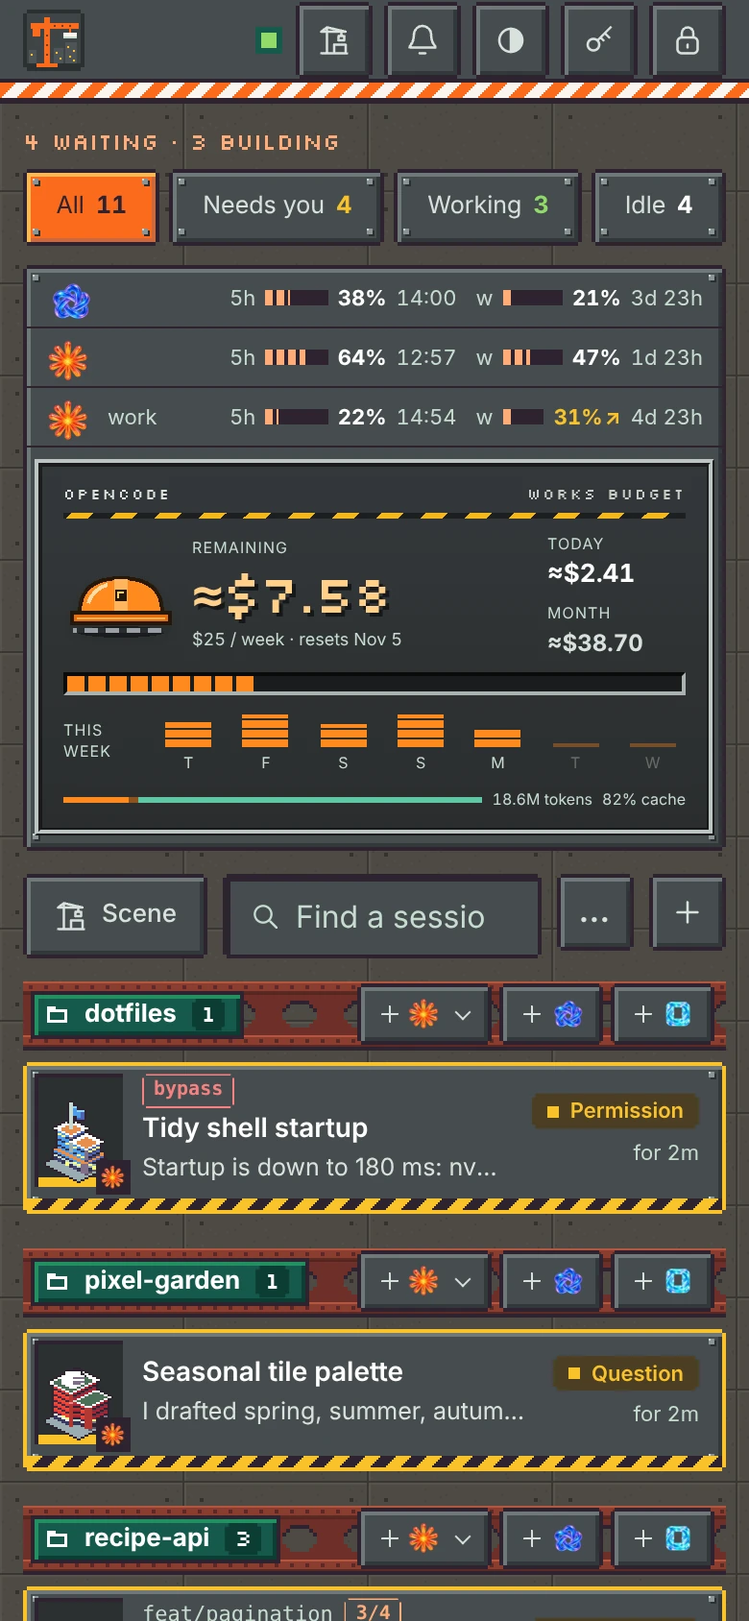
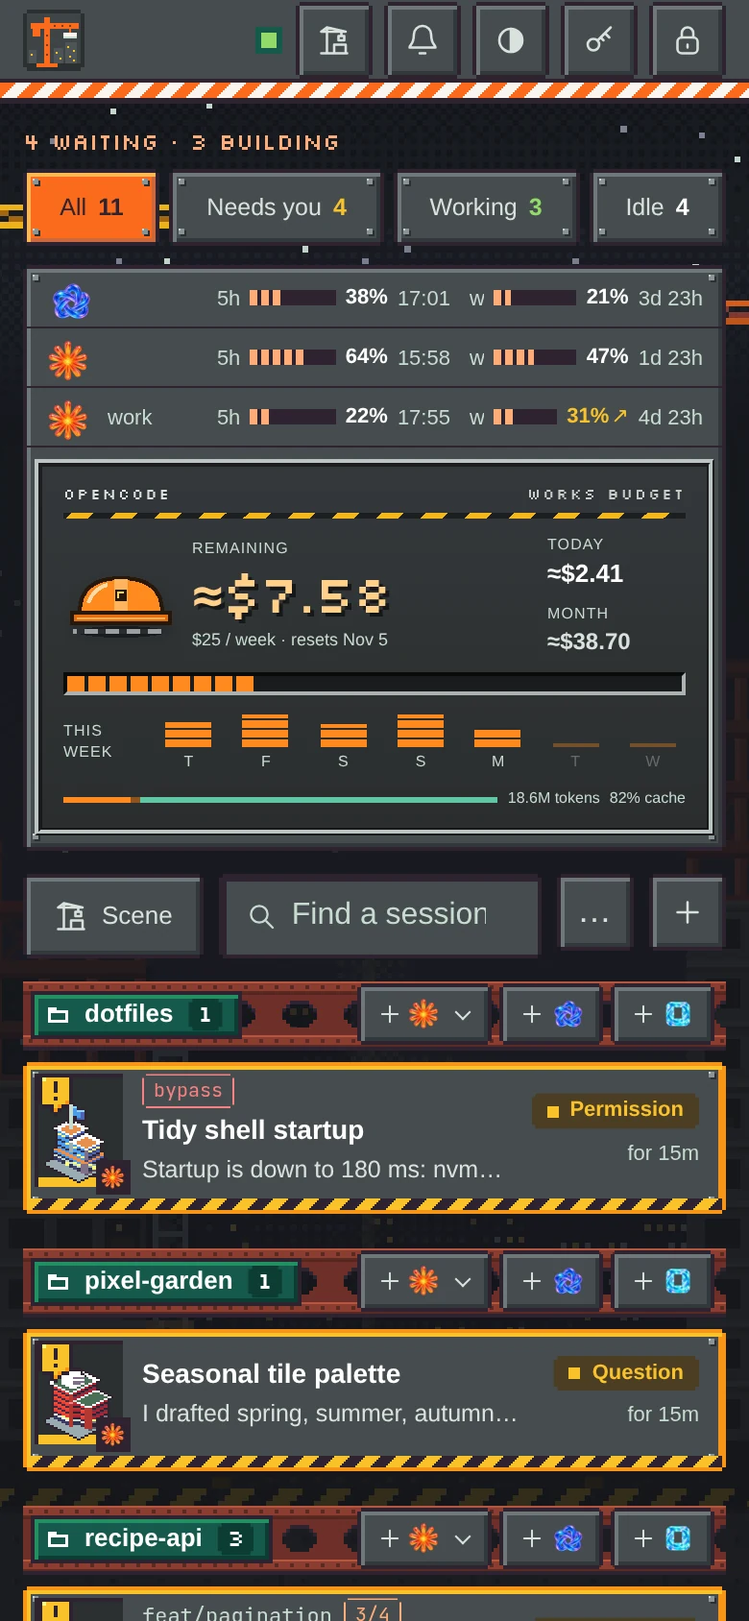
Metropolis: a building site working through the night behind the list
An animated pixel wallpaper, as Heroes and Sanctuary have: the city's towers at night, two tower cranes, frames going up in concrete and steel, floodlights and the hoarding. The picture is drawn in code (client/backdrop/city-still.js, rendered to city-bg.png by scripts/city-art.mjs) so the painter knows where everything is: trolleys run along the jibs and hooks bring up steel, welders' arcs throw sparks, beacons blink, the hoarding's lamps chase, stars twinkle and a plane crosses now and then. It shows behind the list only (the scene covers it otherwise, and the painter idles), the list's column shaded so cards read; the chat has it still and shaded behind its messages.

Also: a city-builder's "!" over buildings that need you, chat messages as steel windows with the speaker on a title bar, and permits answered on green, blue and red buttons.

diff --git a/client/city-list.css b/client/city-list.css
@@ -4,15 +4,19 @@
   .city-portrait { display: block; width: var(--w); height: var(--h); overflow: hidden; flex: none; pointer-events: none; }
   .city-portrait canvas { display: block; height: 100%; image-rendering: pixelated; }
 
-  /* The ground: poured concrete, its form's joints and tie holes still showing. */
-  .main-content, .history-viewport { background: var(--bg) url('/city-formwork.svg') 0 0 / 96px 48px; }
-  body, .shell { background-color: var(--bg); }
+  /* The ground: the building site at night (client/backdrop), showing through behind the list. */
+  /* The list's own column is shaded down below its heading, so the site only glows through between cards; the heading and the margins show it whole. */
+  .main-content { background: linear-gradient(#14161b00 0 96px, #14161bd1 168px); }
+  body { background-color: var(--bg); }
+  /* The chat has the same site behind it, held still and shaded down so its messages read over it. */
+  .history-viewport { background: linear-gradient(#14161bb3, #14161bb3), var(--bg) url('/city-bg.png') center bottom / cover fixed; image-rendering: pixelated; }
+  .history-viewport > * { image-rendering: auto; }
 
   /* Plates are bolted on. */
   :is(.session-card, .usage-accounts, .nav-item, .stat, .login-card, .empty) { background-image: var(--rivet), var(--rivet), var(--rivet), var(--rivet); background-position: 3px 3px, calc(100% - 3px) 3px, 3px calc(100% - 3px), calc(100% - 3px) calc(100% - 3px); background-size: 4px 4px; background-repeat: no-repeat; }
 
-  /* The site behind the page's name, and the road barrier in front of it. */
-  &:is([data-scene-list], [data-scene-fallback]) .page-heading { position: relative; margin-inline: -24px; padding: 16px 24px 20px; background: var(--barrier-edge) 0 calc(100% - 8px) / 100% 2px no-repeat, var(--barrier) 0 100% / 16px 8px repeat-x, url('/city-skyline.svg') 0 calc(100% - 8px) / 640px 56px repeat-x; box-shadow: 0 2px 0 var(--ink); }
+  /* The road barrier in front of the page's name. */
+  &:is([data-scene-list], [data-scene-fallback]) .page-heading { position: relative; margin-inline: -24px; padding: 16px 24px 20px; background: var(--barrier-edge) 0 calc(100% - 8px) / 100% 2px no-repeat, var(--barrier) 0 100% / 16px 8px repeat-x; box-shadow: 0 2px 0 var(--ink); }
 
   /* A phone has no page heading to stand on: the barrier runs under its top bar. */
   .topbar { background: var(--barrier-edge) 0 calc(100% - 8px) / 100% 2px no-repeat, var(--barrier) 0 100% / 16px 8px repeat-x, var(--panel); padding-bottom: 10px; box-shadow: 0 2px 0 var(--ink); }
@@ -42,6 +46,8 @@
   /* Tape round whatever needs you, and only that: it's the one place yellow goes. */
   .session-card.needs-input { position: relative; padding-bottom: 12px; }
   .session-card.needs-input::after { content: ''; position: absolute; inset: auto 0 0; height: 6px; background: url('/city-hazard.svg') 0 0 / 16px 8px repeat-x; pointer-events: none; }
+  /* And the game's alert sign over its building. */
+  .session-card.needs-input .agent-mark::after { content: ''; position: absolute; top: 2px; left: 2px; z-index: 2; width: 18px; height: 22px; background: url('/city-alert.svg') 0 0 / 100% 100%; pointer-events: none; }
   /* Going up: the bay's ground runs. */
   .session-card[data-status=working] .agent-mark { background: url('/city-busy.svg') 0 100% / 16px 8px repeat-x, var(--asphalt); }
   .session-card:is([data-status=idle], [data-status=offline]) { background-color: #3f4648; box-shadow: inset 2px 2px 0 #4d5456, inset -2px -2px 0 #33383a; --text: #d9e2dc; }
@@ -85,7 +91,7 @@
 
   /* The panel: the session's own tower at the kerb of its street. */
   .detail-panel { border-left: 2px solid var(--ink); }
-  .chat-header { padding-bottom: 18px; background: var(--barrier-edge) 0 calc(100% - 8px) / 100% 2px no-repeat, var(--barrier) 0 100% / 16px 8px repeat-x, url('/city-skyline.svg') 0 calc(100% - 8px) / 640px 56px repeat-x, var(--bg); box-shadow: 0 2px 0 var(--ink); position: relative; z-index: 1; }
+  .chat-header { padding-bottom: 18px; background: var(--barrier-edge) 0 calc(100% - 8px) / 100% 2px no-repeat, var(--barrier) 0 100% / 16px 8px repeat-x, var(--bg) url('/city-formwork.svg') 0 0 / 96px 48px; box-shadow: 0 2px 0 var(--ink); position: relative; z-index: 1; }
   /* Its tower stands in the header's mark, on the same bay as in the list, with the agent's tile at the corner. */
   .chat-header .agent-identity .agent-mark { display: flex; align-items: flex-end; justify-content: center; width: 46px; height: 54px; overflow: visible; border: 0; background: linear-gradient(#565e60 0 0) 0 100% / 100% 5px no-repeat, var(--asphalt); box-shadow: inset 2px 2px 0 var(--ink); }
   .chat-header .agent-mark .city-portrait { position: absolute; left: 50%; bottom: 2px; transform: translateX(-50%); max-width: 46px; max-height: 64px; }
@@ -95,18 +101,14 @@
   .chat-header .plan-info { justify-self: start; max-width: 100%; padding: 1px 6px; background: var(--asphalt); }
   .chat-header .panel-title { font-family: var(--font); font-weight: 700; font-size: 17px; text-shadow: 2px 2px 0 var(--ink); }
 
-  /* What's said, in the map's speech bubbles: paper for the agent, a street sign for you. */
-  .recent-message:not(.tool, .notice) { position: relative; --text: #2e222f; --text-2: #3e3546; --text-3: #625565; --panel-2: #e3e6dc; --line-2: #9babb2; --accent: #165a4c; --sunken: #2e222f; border: 2px solid transparent; border-image: var(--px-line) 1 / 2px; background-color: var(--paper); background-clip: padding-box; color: var(--text); box-shadow: inset 0 -2px 0 var(--concrete); }
-  .recent-message.user:not(.tool, .notice) { --text: #fff; --text-2: #d9e2dc; --text-3: #c7dcd0; --panel-2: #0d3d33; --line-2: #239063; --accent: #8ff8e2; background-color: var(--sign); box-shadow: inset 0 -2px 0 #0d3d33; }
-  .recent-message:not(.tool, .notice)::before, .recent-message:not(.tool, .notice)::after { content: ''; position: absolute; top: 100%; left: 12px; width: 10px; height: 6px; margin-top: 2px; pointer-events: none; }
-  .recent-message:not(.tool, .notice)::before { background: var(--ink); clip-path: polygon(0 0, 10px 0, 10px 2px, 8px 2px, 8px 4px, 6px 4px, 6px 6px, 4px 6px, 4px 4px, 2px 4px, 2px 2px, 0 2px); }
-  .recent-message:not(.tool, .notice)::after { background: var(--paper); clip-path: polygon(2px 0, 8px 0, 8px 2px, 6px 2px, 6px 4px, 4px 4px, 4px 2px, 2px 2px); }
-  .recent-message.user:not(.tool, .notice)::before, .recent-message.user:not(.tool, .notice)::after { left: auto; right: 12px; }
-  .recent-message.user:not(.tool, .notice)::after { background: var(--sign); }
-  .recent-message:not(.tool, .notice) { margin-bottom: 8px; }
-  .recent-message:not(.tool, .notice) pre { --text: #fff; color: #fff; }
-  .recent-message:not(.tool, .notice) pre code { color: #fff; }
-  .recent-message:not(.tool, .notice) .message-table-card { background: var(--panel-2); }
+  /* What's said comes up in the game's message windows: a steel plate bolted at its foot, the speaker on a title bar, the agent's on asphalt in hi-vis and yours on a street sign. */
+  .recent-message:not(.tool, .notice) { position: relative; margin-bottom: 8px; border: 2px solid transparent; border-image: var(--px-line) 1 / 2px; background: var(--rivet) 3px calc(100% - 3px) / 4px 4px no-repeat, var(--rivet) calc(100% - 3px) calc(100% - 3px) / 4px 4px no-repeat, var(--panel); background-clip: padding-box; box-shadow: var(--px-raised); }
+  .recent-message.user:not(.tool, .notice) { background-color: var(--panel-2); }
+  .recent-message:not(.tool, .notice) .message-meta { margin: -9px -12px 8px; padding: 3px 10px 4px; background: var(--asphalt); box-shadow: inset 0 -2px 0 var(--ink); color: var(--text-3); }
+  .recent-message:not(.tool, .notice) .message-meta strong { font: 400 8px/1.6 var(--display); color: var(--accent); }
+  .recent-message.user:not(.tool, .notice) .message-meta { background: var(--sign); box-shadow: inset 2px 0 0 var(--sign-lit), inset 0 -2px 0 #0d3d33; color: var(--text-2); }
+  .recent-message.user:not(.tool, .notice) .message-meta strong { color: #fff; }
+  .recent-message:not(.tool, .notice) .message-table-card { background: var(--sunken); }
   .recent-message.tool { border-left: 2px solid var(--kerb); }
   .message-text code { border-radius: 0; }
 
@@ -118,6 +120,12 @@
   .request-box .answer-option:has(input:checked) { background: #c3dccb; border-color: var(--accent); }
   .request-box :is(button, input, textarea, select) { --text: #fff; --text-2: #d9e2dc; --text-3: #c7dcd0; --panel-2: #565e60; --accent-ink: #fff; }
   .request-box :is(input:not([type=radio], [type=checkbox]), textarea, select, pre, pre code) { color: #fff; }
+  /* Its answers on the game's coloured buttons: green to allow, blue for the whole session, red to deny. */
+  .request-box :is(.primary, [data-decision^=accept]) { background: #239063; color: #fff; box-shadow: inset 2px 2px 0 #1ebc73, inset -2px -2px 0 #165a4c; }
+  .request-box [data-decision=acceptForSession] { background: #4d65b4; box-shadow: inset 2px 2px 0 #4d9be6, inset -2px -2px 0 #323353; }
+  .request-box [data-decision=decline] { background: #ae2334; color: #fff; box-shadow: inset 2px 2px 0 #e83b3b, inset -2px -2px 0 #6e2727; }
+  .request-box :is(.primary, [data-decision^=accept], [data-decision=decline]):hover:not(:disabled) { filter: brightness(1.12); }
+  .request-box :is(.primary, [data-decision]):active { box-shadow: var(--px-sunk); }
   .message-composer { border-top: 2px solid var(--ink); position: relative; background-color: var(--panel); box-shadow: inset 0 2px 0 #6f787a; }
 }
 /* Between phone and desktop the sidebar is too narrow for a map, as in the other themes that have one. */
@@ -128,9 +136,12 @@
     .console-contact:is([data-status=question], [data-status=permission])::after { animation: city-contact 1s steps(1) infinite; }
     .console-contact[data-status=working]::after { animation: city-lamp 1.6s steps(1) infinite; }
     .session-card[data-status=working] .agent-mark { animation: city-site 1.6s steps(8) infinite; }
+    /* The alert bobs over its building. */
+    .session-card.needs-input .agent-mark::after { animation: city-alert 1s steps(1) infinite; animation-delay: var(--since-load, 0s); }
   }
 }
 @keyframes city-beats { to { transform: translateX(-100%); } }
 @keyframes city-contact { 50% { background: #fff; } }
 @keyframes city-lamp { 50% { opacity: .35; } }
 @keyframes city-site { to { background-position: 16px 100%, 0 0; } }
+@keyframes city-alert { 50% { translate: 0 -2px; } }

diff --git a/client/backdrop/city-still.js b/client/backdrop/city-still.js
@@ -1,0 +1,143 @@
+import { bayer, hash } from './pixels.js';
+
+// Metropolis by night, going up: the wallpaper behind the list. It is drawn in code so that the painter (city.js)
+// knows where every crane, lamp and weld is; scripts/city-art.mjs renders it to client/public/city-bg.png, which is
+// all that reduced-motion users see. Coordinates are in the wallpaper's own pixels.
+export const W = 480, H = 270, GROUND = 240, FLOOR = 10, FENCE = 252;
+
+// Tower cranes: mast, jib height, the jib's reach and the counter-jib's end, and their paint.
+export const CRANES = [
+  { x: 70, y: 34, reach: 214, back: 46, paint: '#f4b81a', shade: '#a86a10' },
+  { x: 398, y: 50, reach: 280, back: 424, paint: '#fb6b1d', shade: '#9e4539' },
+];
+// Towers going up: left edge, width, floors poured in concrete, and floors framed in steel above them.
+export const SITES = [
+  { x: 136, w: 66, poured: 6, framed: 4 },
+  { x: 292, w: 54, poured: 9, framed: 4 },
+  { x: 410, w: 46, poured: 4, framed: 3 },
+];
+const topOf = site => GROUND - (site.poured + site.framed) * FLOOR;
+// Where the steel is being welded: two joints high on each frame.
+export const WELDS = SITES.flatMap((s, i) => [[s.x + 8 + (i * 16) % (s.w - 24), topOf(s) + FLOOR], [s.x + s.w - 9, topOf(s) + FLOOR * 2]]);
+// Floodlights' heads, and the lamps along the top of the hoarding.
+export const FLOODS = [[238, 150], [468, 166]];
+export const LAMPS = Array.from({ length: 8 }, (_, i) => [28 + i * 62, FENCE - 6]);
+export const MOON = [436, 30, 9];
+
+const SKY = ['#14161b', '#191c22', '#1f232b', '#262a33', '#2e303b', '#38363f', '#433b3f', '#4f4240'];
+const STAR = (x, y) => y < 150 && hash(x, y, 7) < .004;
+export const stars = () => { const out = []; for (let y = 0; y < 150; y++) for (let x = 0; x < W; x++) if (STAR(x, y)) out.push([x, y]); return out; };
+// The two rows of towers behind the site: the far one paler and plainer, the near one darker, taller and lit.
+const ROWS = [{ salt: 1, colour: '#2b2b33', low: 22, high: 70, lit: .1, wide: 22 }, { salt: 2, colour: '#1d1f26', low: 34, high: 118, lit: .24, wide: 34 }];
+export function skyline() {
+  const out = [];
+  for (const row of ROWS) for (let x = -4, k = 0; x < W; k++) {
+    const w = 10 + Math.floor(hash(k, row.salt, 1) * row.wide), h = row.low + Math.floor(hash(k, row.salt, 2) ** 1.6 * (row.high - row.low));
+    out.push({ ...row, x, w, h, top: GROUND - h });
+    x += w + (hash(k, row.salt, 4) < .3 ? 3 : 0);
+  }
+  return out;
+}
+// The tallest near towers carry a red light on a mast; the painter blinks them.
+export const towerLights = skyline().filter(tower => tower.salt === 2 && tower.h > 80).map(tower => [tower.x + Math.floor(tower.w / 2), tower.top - 8]);
+
+const rgb = hex => [parseInt(hex.slice(1, 3), 16), parseInt(hex.slice(3, 5), 16), parseInt(hex.slice(5, 7), 16)];
+
+// Draws the still into an RGBA buffer of W x H.
+export function drawStill(data) {
+  const put = (x, y, c) => { if (x < 0 || y < 0 || x >= W || y >= H) return; data.set([...(typeof c === 'string' ? rgb(c) : c), 255], (y * W + x) * 4); };
+  const get = (x, y) => [...data.subarray((y * W + x) * 4, (y * W + x) * 4 + 3)];
+  const rect = (x, y, w, h, c) => { for (let j = y; j < y + h; j++) for (let i = x; i < x + w; i++) put(i, j, c); };
+  const line = (x0, y0, x1, y1, c) => { const n = Math.max(Math.abs(x1 - x0), Math.abs(y1 - y0)); for (let k = 0; k <= n; k++) put(Math.round(x0 + (x1 - x0) * k / n), Math.round(y0 + (y1 - y0) * k / n), c); };
+
+  // Sky, dithered down to the glow the city puts on the haze; stars; the moon.
+  for (let y = 0; y < GROUND; y++) for (let x = 0; x < W; x++) {
+    const at = y / GROUND * (SKY.length - 1), band = Math.floor(at);
+    put(x, y, STAR(x, y) ? (hash(x, y, 8) < .3 ? '#c7dcd0' : '#7d8494') : SKY[Math.min(SKY.length - 1, band + (bayer(x, y) < at - band ? 1 : 0))]);
+  }
+  const [mx, my, mr] = MOON;
+  for (let y = -mr - 3; y <= mr + 3; y++) for (let x = -mr - 3; x <= mr + 3; x++) {
+    const d = Math.hypot(x, y);
+    if (d <= mr) put(mx + x, my + y, x + y > mr * .6 ? '#b9b39f' : hash(mx + x, my + y, 9) < .08 ? '#a7a08b' : '#d9d4c3');
+    else if (d <= mr + 3 && bayer(mx + x, my + y) < .35 * (mr + 3 - d) / 3) put(mx + x, my + y, '#2c3038');
+  }
+
+  for (const { salt, colour, lit, x, w, h, top } of skyline()) {
+    rect(x, top, w, h, colour);
+    for (let wy = top + 3; wy < GROUND - 2; wy += 3) for (let wx = x + 2; wx < x + w - 1; wx += salt === 1 ? 3 : 2) {
+      const on = hash(wx, wy, salt + 3) < lit;
+      if (salt === 1) { if (on) put(wx, wy, '#6f6450'); continue; }
+      put(wx, wy, on ? ['#e0b45a', '#c99a48', '#9fb6c4'][Math.floor(hash(wx, wy, 6) * 3)] : '#262930');
+    }
+    if (salt === 2 && h > 80) { const ax = x + Math.floor(w / 2); rect(ax, top - 7, 1, 7, colour); put(ax, top - 8, '#5a2020'); }
+  }
+
+  // Cranes: lattice mast on a concrete base, cab, jib and counter-jib with its weights, the A-frame and its ties.
+  for (const c of CRANES) {
+    const dir = Math.sign(c.reach - c.x), [j0, j1] = [Math.min(c.x, c.reach), Math.max(c.x + 5, c.reach)], [b0, b1] = [Math.min(c.x, c.back), Math.max(c.x + 5, c.back)];
+    rect(c.x - 3, GROUND - 4, 12, 4, '#5d5b56');
+    for (let y = c.y + 4; y < GROUND - 4; y++) {
+      put(c.x, y, c.paint); put(c.x + 5, y, c.paint);
+      const d = (y - c.y) % 10; if (d === 0) rect(c.x + 1, y, 4, 1, c.paint); else put(c.x + 1 + Math.min(3, d < 5 ? d - 1 : 9 - d), y, c.shade);
+    }
+    for (let x = j0; x <= j1; x++) { put(x, c.y, c.paint); put(x, c.y + 3, c.paint); const d = ((x - j0) % 6 + 6) % 6; put(x, c.y + 1 + (d < 3 ? Math.min(1, d) : d > 4 ? 0 : 1), c.shade); }
+    for (let x = b0; x <= b1; x++) { put(x, c.y + 1, c.paint); put(x, c.y + 3, c.paint); if (x % 3 === 0) put(x, c.y + 2, c.shade); }
+    const wx = dir > 0 ? b0 : b1 - 6; rect(wx, c.y + 4, 7, 7, '#5d5b56'); rect(wx, c.y + 9, 7, 2, '#47453f'); rect(wx, c.y + 6, 7, 1, '#47453f');
+    rect(c.x - 2, c.y + 4, 10, 2, c.shade);
+    const cab = dir > 0 ? c.x + 6 : c.x - 6; rect(cab, c.y + 5, 6, 5, '#d9d4c3'); rect(cab + 1, c.y + 6, 4, 2, '#e0b45a'); rect(cab, c.y + 9, 6, 1, '#9b968a');
+    line(c.x, c.y, c.x + 2, c.y - 11, c.paint); line(c.x + 5, c.y, c.x + 3, c.y - 11, c.paint); rect(c.x + 2, c.y - 12, 2, 1, c.paint);
+    line(c.x + 2, c.y - 12, Math.round(c.x + (c.reach - c.x) * .62), c.y, '#6b6f70'); line(c.x + 3, c.y - 12, c.back, c.y + 1, '#6b6f70');
+    put(c.x + 2, c.y - 13, '#5a2020'); put(c.reach, c.y - 1, '#5a2020');
+  }
+
+  // Towers going up: concrete floors with their openings and scaffold, then bare steel, the top floor unfinished.
+  for (const [i, s] of SITES.entries()) {
+    const poured = GROUND - s.poured * FLOOR, top = topOf(s);
+    rect(s.x, poured, s.w, GROUND - poured, '#5d5b56'); rect(s.x + s.w - 4, poured, 4, GROUND - poured, '#4c4a45');
+    for (let y = poured; y < GROUND; y += FLOOR) {
+      rect(s.x, y, s.w, 1, '#77746c'); rect(s.x, y + 1, s.w, 1, '#47453f');
+      for (let x = s.x + 2; x < s.x + s.w - 6; x += 8) {
+        rect(x + 1, y + 3, 6, 5, '#25231f');
+        if (hash(x, y, 11) < .18) { rect(x + 2, y + 6, 4, 2, '#4a3b22'); put(x + 3 + Math.floor(hash(x, y, 12) * 2), y + 4, '#e8c77a'); }
+      }
+    }
+    for (let f = 0; f < s.framed; f++) {
+      const y = poured - (f + 1) * FLOOR, last = f === s.framed - 1, end = last ? s.x + Math.floor(s.w * (.45 + hash(i, 3) * .25)) : s.x + s.w;
+      for (let x = s.x; x < (last ? end + 1 : s.x + s.w); x += 8) { rect(x, y, 1, FLOOR, '#b4563f'); rect(x + 1, y, 1, FLOOR, '#8a3d30'); }
+      rect(s.x, y, end - s.x, 2, '#8a3d30'); rect(s.x, y + 2, end - s.x, 1, '#5a2a24');
+      const bay = s.x + 8 * Math.floor(hash(i, f, 5) * (s.w / 8 - 1));
+      if (!last) { line(bay + 2, y + 3, bay + 7, y + FLOOR - 1, '#6e3029'); line(bay + 7, y + 3, bay + 2, y + FLOOR - 1, '#6e3029'); }
+    }
+    rect(s.x, poured - 1, s.w, 1, '#8a3d30');
+    const sx = s.x + s.w;
+    for (let y = poured - FLOOR; y < GROUND; y++) {
+      put(sx + 1, y, '#8d9497'); put(sx + 6, y, '#8d9497');
+      if ((y - poured) % 5 === 0) rect(sx + 1, y, 6, 1, '#8d9497'); else for (let x = sx + 2; x < sx + 6; x++) if (bayer(x, y) < .35) put(x, y, '#33493c');
+      if ((y - poured) % FLOOR === 0) rect(sx, y, 8, 2, '#a07a4a');
+    }
+  }
+
+  // The ground, floodlit; a stack of beams and cones; the site cabin.
+  for (let y = GROUND; y < H; y++) for (let x = 0; x < W; x++) { const n = hash(x, y, 13); put(x, y, n < .08 ? '#2e2b27' : n > .94 ? '#1c1a18' : '#24221f'); }
+  for (let k = 0; k < 3; k++) { rect(196 + k * 2, GROUND - 2 - k * 3, 40 - k * 4, 2, '#8a3d30'); rect(196 + k * 2, GROUND - 3 - k * 3, 40 - k * 4, 1, '#b4563f'); rect(196 + k * 2, GROUND - 2 - k * 3, 1, 2, '#5a2a24'); }
+  for (const cx of [252, 262, 286]) { rect(cx, GROUND - 5, 3, 5, '#fb6b1d'); rect(cx, GROUND - 3, 3, 1, '#e3e6dc'); rect(cx - 1, GROUND - 1, 5, 1, '#9e4539'); }
+  rect(420, 226, 50, 26, '#6b6f70'); rect(420, 224, 50, 2, '#3d4143'); rect(420, 246, 50, 6, '#4f5354');
+  rect(428, 231, 12, 6, '#3d4143'); rect(429, 232, 10, 4, '#fbb954'); rect(452, 231, 7, 15, '#4f5354'); rect(457, 238, 1, 2, '#9b968a');
+  for (const [fx, fy] of FLOODS) {
+    rect(fx, fy + 3, 2, GROUND - fy - 3, '#47453f'); rect(fx - 2, fy, 6, 3, '#d9d4c3'); rect(fx - 2, fy + 2, 6, 1, '#fbff86');
+    for (let y = fy + 4; y < H; y++) {
+      const reach = y - fy, half = Math.round(reach * .55);
+      for (let x = fx + 1 - half; x <= fx + 1 + half; x++) {
+        const fade = (1 - reach / (H - fy)) * (1 - Math.abs(x - fx - 1) / (half + 1));
+        if (x < 0 || x >= W || bayer(x, y) >= fade * .7) continue;
+        const [r, g, b] = get(x, y); put(x, y, [Math.min(255, r * 1.16 + 22), Math.min(255, g * 1.14 + 18), Math.min(255, b * 1.08 + 8)]);
+      }
+    }
+  }
+
+  // The hoarding: poured panels with their tie holes, a hazard band and a lamp every few panels.
+  for (let y = FENCE; y < H; y++) for (let x = 0; x < W; x++) put(x, y, x % 32 === 0 ? '#3d3b36' : x % 32 === 1 ? '#57534c' : (y - FENCE) % 7 === 4 && x % 8 === 4 ? '#2e2c28' : '#4d4a44');
+  rect(0, FENCE - 1, W, 1, '#2c3032');
+  for (let y = FENCE - 4; y < FENCE - 1; y++) for (let x = 0; x < W; x++) put(x, y, (x + y) % 8 < 4 ? '#f4b81a' : '#1d1f20');
+  for (const [lx, ly] of LAMPS) { rect(lx, ly + 2, 1, 2, '#2c3032'); rect(lx - 1, ly, 3, 2, '#7a4b10'); }
+}

diff --git a/client/backdrop/city.js b/client/backdrop/city.js
@@ -1,0 +1,56 @@
+import { CRANES, LAMPS, W, WELDS, stars, towerLights } from './city-still.js';
+import { glow, hash, painter, pixelAt } from './pixels.js';
+
+// Metropolis: the site works through the night. Trolleys run out along the jibs and the hooks bring up steel,
+// welders' arcs flash on the frames, red lights blink on the cranes and the tallest towers, the hoarding's
+// lamps chase along it, stars come and go, and now and then a plane crosses. Coordinates are the wallpaper's (city-still.js).
+const STEEL = '#8a3d30', STEEL_LIT = '#b4563f', CABLE = '#8d9497';
+
+export function createPainter(sample) {
+  const twinkling = stars().filter((_, i) => i % 3 === 0);
+
+  return function frame(ctx, t) {
+    const rect = painter(ctx), blink = (phase, period = 1.6) => (t + phase) % period < .45;
+    const beacon = (x, y, phase) => { if (!blink(phase)) return; rect(x, y, 1, 1, '#ff4a3a'); glow(ctx, x, y, 3, '#e83b3b', .35); };
+
+    twinkling.forEach(([x, y], k) => { if (hash(k, Math.floor(t * 1.5), 21) < .12) rect(x, y, 1, 1, `rgb(${pixelAt(sample, x + 1, y).join()})`); });
+
+    CRANES.forEach((c, i) => {
+      // Out along the jib and back, the hook down and up, a beam hanging off it on two slings.
+      const dir = Math.sign(c.reach - c.x), near = dir > 0 ? c.x + 14 : c.x - 10, far = c.reach - dir * 6;
+      const x = Math.round(near + (far - near) * (.5 - .5 * Math.cos(t * (.09 + i * .025) + i * 2.4)));
+      const drop = Math.round(18 + 46 * (.5 - .5 * Math.cos(t * (.13 + i * .03) + i * 1.3))), top = c.y + 4, hook = top + 2 + drop;
+      const sway = Math.round(Math.sin(t * 1.1 + i * 2));
+      rect(x - 2, top, 5, 2, '#2c3032'); rect(x - 1, top + 2, 1, drop, CABLE); rect(x + 1, top + 2, 1, drop, CABLE);
+      rect(x - 1, hook, 3, 2, c.paint);
+      rect(x - 3 + sway, hook + 3, 1, 1, CABLE); rect(x + 3 + sway, hook + 3, 1, 1, CABLE); rect(x - 2 + sway, hook + 2, 1, 1, CABLE); rect(x + 2 + sway, hook + 2, 1, 1, CABLE);
+      rect(x - 7 + sway, hook + 4, 15, 1, STEEL_LIT); rect(x - 7 + sway, hook + 5, 15, 1, STEEL);
+      beacon(c.x + 2, c.y - 13, i * .7); beacon(c.reach, c.y - 1, i * .7 + .8);
+    });
+    towerLights.forEach(([x, y], k) => beacon(x, y, k * .37 + hash(k, 22)));
+
+    // Arcs flash in bursts, throwing sparks that fall and cool.
+    WELDS.forEach(([x, y], k) => {
+      const period = 3.5 + hash(k, 1) * 4, u = (t + hash(k, 2) * period) % period;
+      if (u > 1.6) return;
+      const f = Math.floor(t * 12);
+      if (hash(f, k, 3) < .7) { rect(x, y, 1, 1, '#ffffff'); glow(ctx, x, y, 4 + (hash(f, k, 4) > .5 ? 1 : 0), '#8fd3ff', .55); }
+      for (let s = 0; s < 7; s++) {
+        const life = .7 + hash(k, s, 5) * .4, v = u + s * .17, age = (v % life) / life, n = Math.floor(v / life);
+        const sx = x + Math.round((hash(k, s, n) - .5) * 12 * age), sy = y + 1 + Math.round(age * age * 20);
+        rect(sx, sy, 1, 1, age < .35 ? '#fbff86' : age < .7 ? '#f79617' : '#9e4539', 1 - age * .8);
+      }
+    });
+
+    // The hoarding's lamps chase along it, two at a time.
+    LAMPS.forEach(([x, y], k) => { if ((Math.floor(t * 4) - k + LAMPS.length * 99) % LAMPS.length < 2) { rect(x - 1, y, 3, 2, '#f79617'); glow(ctx, x, y, 5, '#fb6b1d', .3); } });
+
+    // A plane every minute or so, high over the site.
+    const period = 61, u = (t % period) / period;
+    if (u < .3) {
+      const px = Math.round(-6 + (W + 12) * u / .3), py = 14 + Math.round(u * 16);
+      rect(px, py, 3, 1, '#7d8494');
+      if (Math.floor(t * 2) % 2) rect(px - 1, py, 1, 1, '#e83b3b'); else rect(px + 3, py, 1, 1, '#ffffff');
+    }
+  };
+}

diff --git a/client/backdrop/pixel-backdrop.js b/client/backdrop/pixel-backdrop.js
@@ -6,10 +6,11 @@ import { coverLayout } from './pixels.js';
 const looks = {
   heroes: { src: '/heroes-bg.webp', grid: 4, painter: () => import('./heroes.js') },
   diablo: { src: '/diablo-bg.webp', grid: 3, painter: () => import('./diablo.js') },
+  city: { src: '/city-bg.png', grid: 1, painter: () => import('./city.js') },
 };
 const FPS = 12;
 const motion = globalThis.matchMedia?.('(prefers-reduced-motion: reduce)');
-let root, canvas, ctx, current, running, raf, last = 0, ticket = 0;
+let root, canvas, ctx, current, running, raf, last = 0, ticket = 0, shown = 0;
 
 function mount() {
   if (root) return;
@@ -34,6 +35,9 @@ function layout() {
 function tick(now) {
   raf = requestAnimationFrame(tick);
   if (now - last < 1000 / FPS) return;
+  // Hidden by its theme (Metropolis while its scene is up): nothing to paint, and laid out again when it shows.
+  const width = root.clientWidth; if (width !== shown) { shown = width; layout(); }
+  if (!width) return;
   last = now; ctx.clearRect(0, 0, canvas.width, canvas.height); ctx.globalAlpha = 1;
   current.frame(ctx, now / 1000);
 }

diff --git a/client/backdrop.css b/client/backdrop.css
@@ -7,4 +7,8 @@
 :root[data-theme=heroes] #pixel-backdrop::after { background: linear-gradient(90deg, #07102466, #07102422 65%, #07102408); }
 :root[data-theme=diablo] #pixel-backdrop { display: block; background-image: url('/diablo-bg.webp'); }
 :root[data-theme=diablo] #pixel-backdrop::after { background: linear-gradient(#0b07052b, #0b07054d); }
+/* Metropolis shows its building site behind the list only: its scene covers everything else. */
+:root[data-theme=city]:is([data-scene-list], [data-scene-fallback]) #pixel-backdrop { display: block; background-image: url('/city-bg.png'); background-position: center bottom; }
+:root[data-theme=city] #pixel-backdrop::after { background: linear-gradient(#0d0e1100, #0d0e1140); }
 @media (max-width: 640px) { :root[data-theme=heroes] #pixel-backdrop { background-position: 78% center; } }
+@media (max-width: 640px) { :root[data-theme=city] #pixel-backdrop { background-position: 24% bottom; } }

diff --git a/README.md b/README.md
@@ -14,7 +14,7 @@ A self-hosted dashboard for local Codex, Claude Code and OpenCode sessions on **
 - Account usage limits, notifications and sounds when a session needs you.
 - OpenCode spend HUDs, daily cost charts, token mix and editable weekly or monthly budgets, in every theme: a Bridge console row, a Metropolis plant, a Fantasy treasury and a line on the Office whiteboard.
 - Sessions lost to a crash, a killed tmux or a shutdown come back with their last prompt and reply, to resume in a click.
-- Light, dark and themed interfaces, including a walkable 3D Office and a starship Bridge you run from the captain's chair or walk around, with holograms for its colours and who's waiting. Heroes and Sanctuary have animated pixel wallpapers: waving flags and waterfalls, guttering candles and dripping blood.
+- Light, dark and themed interfaces, including a walkable 3D Office and a starship Bridge you run from the captain's chair or walk around, with holograms for its colours and who's waiting. Heroes, Sanctuary and Metropolis have animated pixel wallpapers: waving flags and waterfalls, guttering candles and dripping blood, cranes and welders working through the night.
 - A pixel-art Metropolis where each project is a neighbourhood and each session a building that grows while it runs.
 - Fantasy Battle, an RPG where each project is a fight, each session a party member and each subagent a minion, with context counting down to Compact, tools as spells, a closing blow when a session finishes, and a boot logo and title screen.
 - Trickshot in the Office's kitchen: land a paper ball or mug in its target or hit a fruit with a rubber ball or plate, with six levels, three daily shots and a score board.
